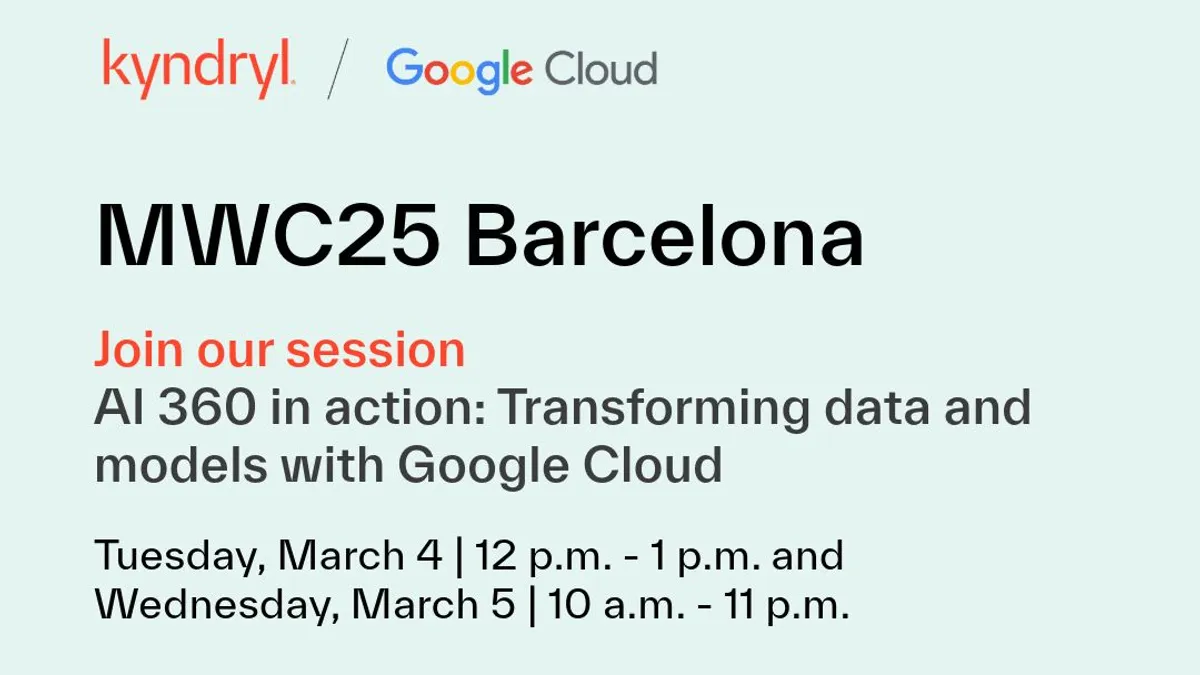
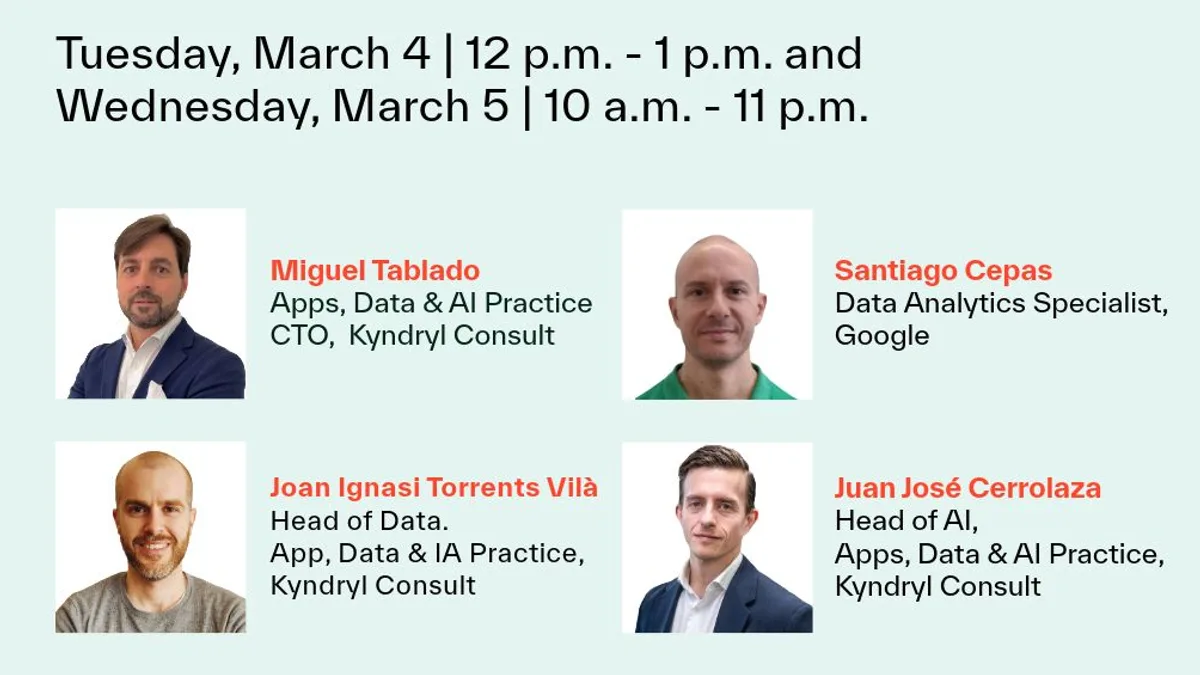
New photos for the Imaging and Cloudera cards; MWC photo shows the owner's face
- Imaging: panel on stage; Cloudera: speaker announcement (EVOLVE Forum Madrid 2025)
- MWC poster cropped to the dates and speakers
- Cloudera card: 'Speaker at Cloudera EVOLVE Forum 2025', Madrid

Changed region(s): [[0.0308, 0.28, 0.9867, 0.9644], [0.0308, 0.0311, 0.74, 0.1867]]

diff --git a/src/content/content.ts b/src/content/content.ts
@@ -826,10 +826,10 @@ export const content: Content = {
         type: "talk",
         event: "Cloudera Evolve",
         title: {
-          en: "Kyndryl at Cloudera Evolve Forum 2025",
-          es: "Kyndryl en Cloudera Evolve Forum 2025",
+          en: "Speaker at Cloudera EVOLVE Forum 2025",
+          es: "Ponente en Cloudera EVOLVE Forum 2025",
         },
-        venue: "Cloudera Evolve Forum 2025",
+        venue: "Cloudera EVOLVE Forum, Madrid",
         date: "2025-11",
         url: "https://www.linkedin.com/posts/jitorrents_ha-sido-un-aut%C3%A9ntico-placer-haber-podido-ugcPost-7392642311098355712-DfVO",
         image: "/presence/cloudera25.webp",

diff --git a/public/presence/SOURCES.md b/public/presence/SOURCES.md
@@ -2,12 +2,12 @@
 
 Cropped to 16:9 (1200×675 WebP, metadata removed).
 
-| File                 | Source                                                                                           |
-| -------------------- | ------------------------------------------------------------------------------------------------ |
-| `mwc25.webp`         | Image of the owner's LinkedIn post announcing the MWC25 session (Kyndryl / Google Cloud poster)  |
-| `smartcities25.webp` | Image of the owner's LinkedIn post about Smart City Expo World Congress 2025                     |
-| `cloudera25.webp`    | Photo from the owner's LinkedIn post at Cloudera Evolve Forum 2025                               |
-| `imaging26.webp`     | Programme image of the owner's LinkedIn post (Fundación IMAGING, "El Espacio de Datos de Salud") |
-| `byte344.webp`       | Cover of Byte TI nº 344 (January 2026), rendered from the magazine's public PDF                  |
+| File                 | Source                                                                                                                                                       |
+| -------------------- | ------------------------------------------------------------------------------------------------------------------------------------------------------------ |
+| `mwc25.webp`         | Image of the owner's LinkedIn post announcing the MWC25 session (Kyndryl / Google Cloud poster), cropped to the dates and speakers so the owner's face shows |
+| `smartcities25.webp` | Image of the owner's LinkedIn post about Smart City Expo World Congress 2025                                                                                 |
+| `cloudera25.webp`    | Cloudera's speaker announcement for EVOLVE Forum Madrid 2025 (6 Nov 2025), provided by the owner                                                             |
+| `imaging26.webp`     | Photo of the panel on stage at "El Espacio de Datos de Salud" (Fundación IMAGING, 24 Mar 2026), provided by the owner                                        |
+| `byte344.webp`       | Cover of Byte TI nº 344 (January 2026), rendered from the magazine's public PDF                                                                              |
 
 New photos: drop the original in `photos-inbox/` (gitignored) and ask for it to be processed.
